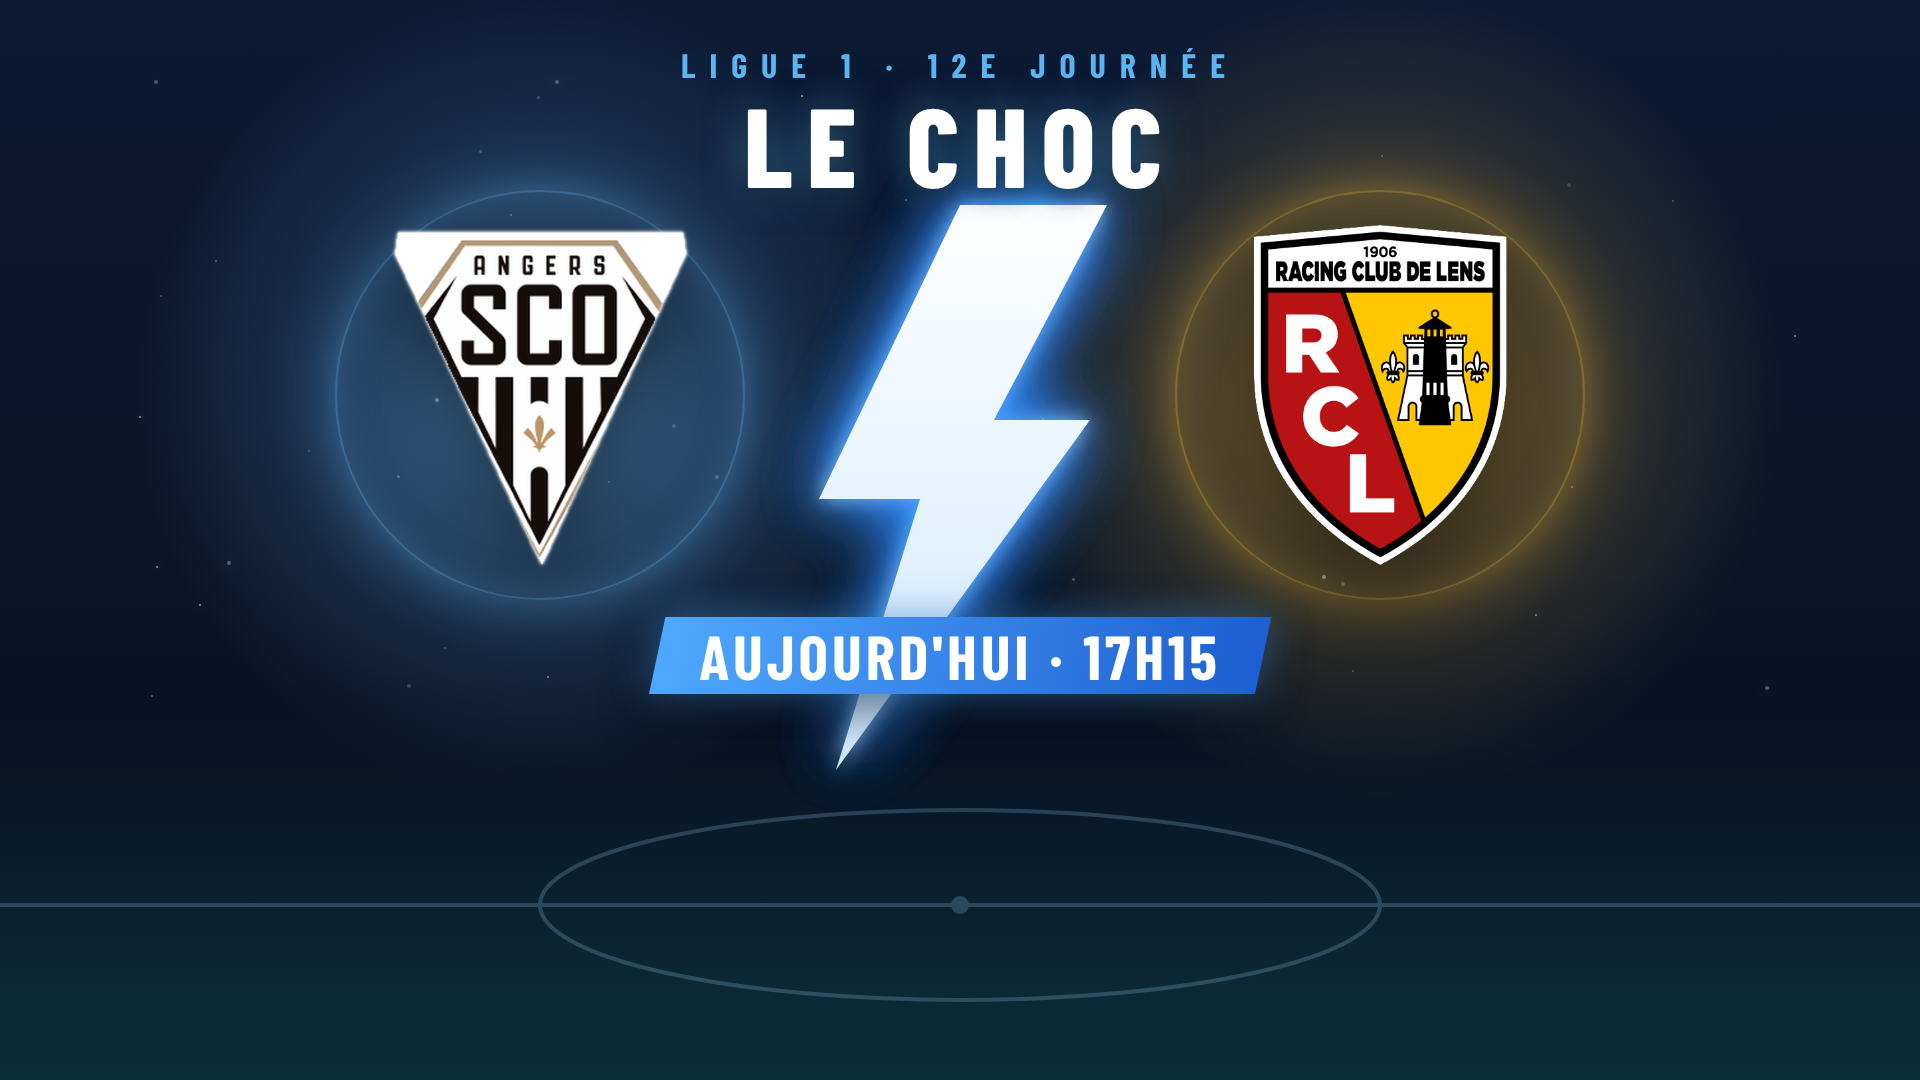
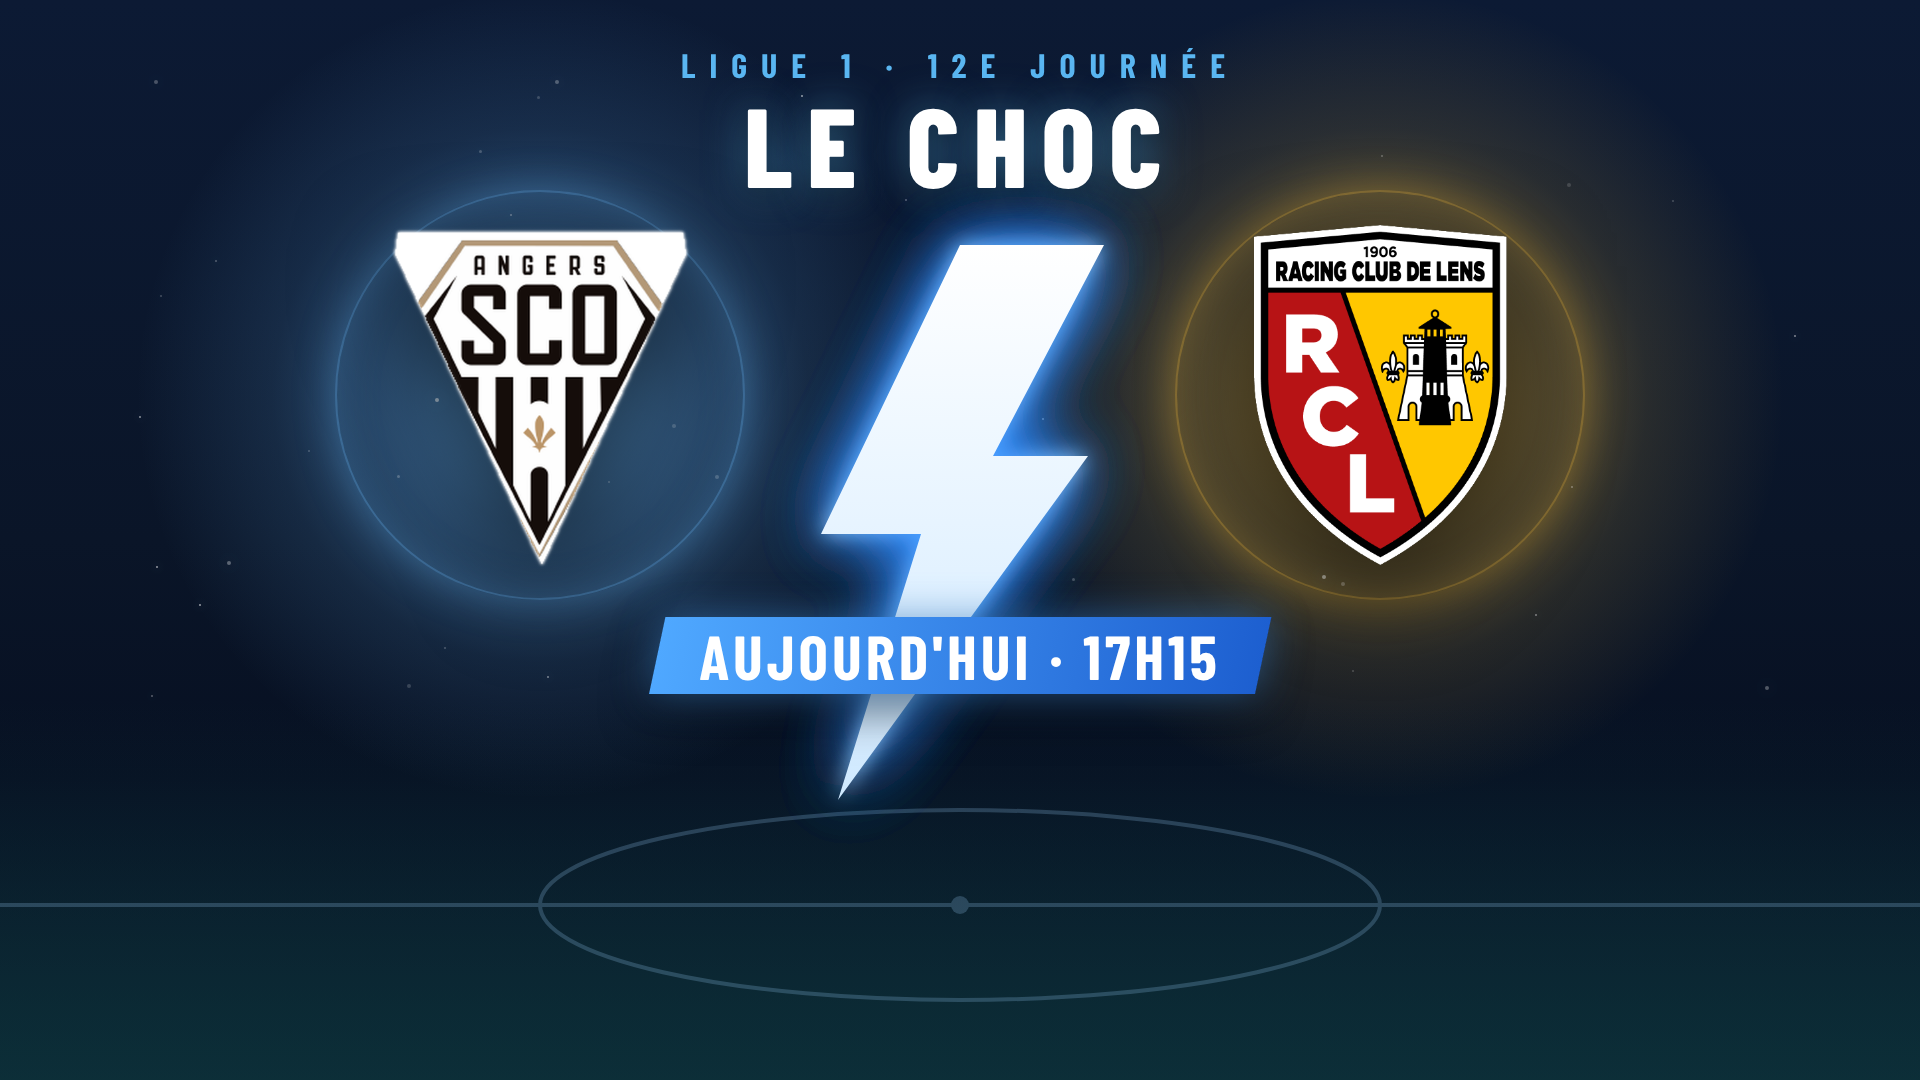
Couverture SCO-Lens : éclair abaissé sous LE CHOC
Claude-Session: https://claude.ai/code/session_01ShcrTswhZu9rDc4mz55fwo

Changed region(s): [[0.4062, 0.1528, 0.5938, 0.5806], [0.4062, 0.6417, 0.5, 0.7639]]

diff --git a/outils/choc.py b/outils/choc.py
@@ -284,7 +284,7 @@ def page_nuit(f):
   {halo(cx+dx, '255,196,60')}
   {poussiere}
   {arcs}
-  {eclair(cx, 205, 770) if f.get('eclair') else ''}
+  {eclair(cx, 245, 800) if f.get('eclair') else ''}
   {logo(f['dom']['logo'], cx-dx)}
   {logo(f['ext']['logo'], cx+dx)}
   <div style="display:{'none' if f.get('eclair') else 'block'};position:absolute;left:0;right:0;top:{cy-80}px;text-align:center;font-family:'Barlow Condensed';font-weight:800;font-style:italic;font-size:150px;line-height:1;background:linear-gradient(180deg,#FFFFFF 0%,#9FD3FF 100%);-webkit-background-clip:text;color:transparent">VS</div>
